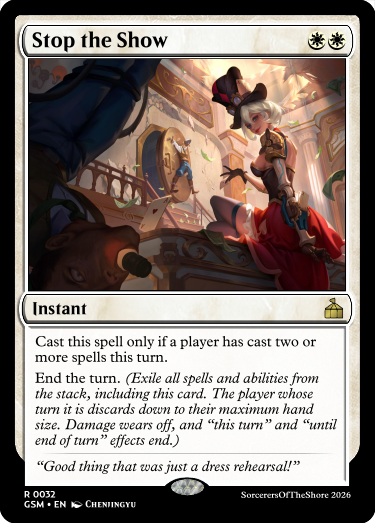
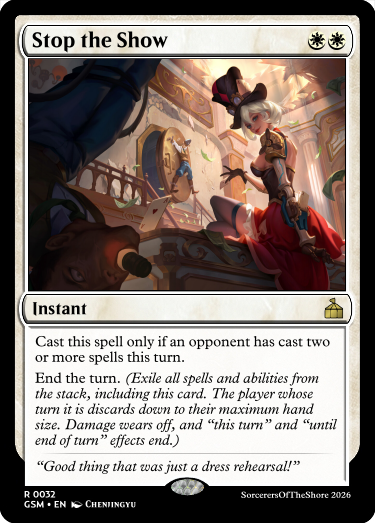
GSM Final Tweaks

Changed region(s): [[0.088, 0.6424, 0.88, 0.7036]]

diff --git a/previews/GSM.html b/previews/GSM.html
@@ -271,7 +271,7 @@
 				<div class="container"><img loading="lazy" alt="sets\GSM-files\img\2_Army in a Tub.png" id="GSM_2_Army in a Tub" data-flag="@X" onclick="openSidebar('GSM_2_Army in a Tub',false)"></div>
 				<div class="container"><img loading="lazy" alt="sets\GSM-files\img\36_Alakazam!.png" id="GSM_36_Alakazam!" data-flag="@X" onclick="openSidebar('GSM_36_Alakazam!',false)"></div>
 				<div class="container"><img loading="lazy" alt="sets\GSM-files\img\72_Cash In.png" id="GSM_72_Cash In" data-flag="@X" onclick="openSidebar('GSM_72_Cash In',false)"></div>
-				<div class="container"><img loading="lazy" alt="sets\GSM-files\img\102_Andrie, Ride Tycoon.png" id="GSM_102_Andrie, Ride Tycoon" data-flag="@X" onclick="openSidebar('GSM_102_Andrie, Ride Tycoon',false)"></div>
+				<div class="container"><img loading="lazy" alt="sets\GSM-files\img\101_Andrie, Ride Tycoon.png" id="GSM_101_Andrie, Ride Tycoon" data-flag="@X" onclick="openSidebar('GSM_101_Andrie, Ride Tycoon',false)"></div>
 				<div class="container"><img loading="lazy" alt="sets\GSM-files\img\136_Blossoming Act.png" id="GSM_136_Blossoming Act" data-flag="@X" onclick="openSidebar('GSM_136_Blossoming Act',false)"></div>
 				<div class="container"><img loading="lazy" alt="sets\GSM-files\img\5_Celebrate Life.png" id="GSM_5_Celebrate Life" data-flag="@X" onclick="openSidebar('GSM_5_Celebrate Life',false)"></div>
 				<div class="container"><img loading="lazy" alt="sets\GSM-files\img\37_Amphin Sleightmage.png" id="GSM_37_Amphin Sleightmage" data-flag="@X" onclick="openSidebar('GSM_37_Amphin Sleightmage',false)"></div>
@@ -346,7 +346,7 @@
 				<div class="container"><img loading="lazy" alt="sets\GSM-files\img\3_Big Band Boss.png" id="GSM_3_Big Band Boss" data-flag="@X" onclick="openSidebar('GSM_3_Big Band Boss',false)"></div>
 				<div class="container"><img loading="lazy" alt="sets\GSM-files\img\35_Aerie Keeper.png" id="GSM_35_Aerie Keeper" data-flag="@X" onclick="openSidebar('GSM_35_Aerie Keeper',false)"></div>
 				<div class="container"><img loading="lazy" alt="sets\GSM-files\img\68_Alluring Showoff.png" id="GSM_68_Alluring Showoff" data-flag="@X" onclick="openSidebar('GSM_68_Alluring Showoff',false)"></div>
-				<div class="container"><img loading="lazy" alt="sets\GSM-files\img\101_Any Volunteers.png" id="GSM_101_Any Volunteers" data-flag="@X" onclick="openSidebar('GSM_101_Any Volunteers',false)"></div>
+				<div class="container"><img loading="lazy" alt="sets\GSM-files\img\102_Any Volunteers.png" id="GSM_102_Any Volunteers" data-flag="@X" onclick="openSidebar('GSM_102_Any Volunteers',false)"></div>
 				<div class="container"><img loading="lazy" alt="sets\GSM-files\img\134_Animal Mishandling.png" id="GSM_134_Animal Mishandling" data-flag="@X" onclick="openSidebar('GSM_134_Animal Mishandling',false)"></div>
 				<div class="container"><img loading="lazy" alt="sets\GSM-files\img\4_Brilliant Bumpers.png" id="GSM_4_Brilliant Bumpers" data-flag="@X" onclick="openSidebar('GSM_4_Brilliant Bumpers',false)"></div>
 				<div class="container"><img loading="lazy" alt="sets\GSM-files\img\38_Aquatic Actor.png" id="GSM_38_Aquatic Actor" data-flag="@X" onclick="openSidebar('GSM_38_Aquatic Actor',false)"></div>
